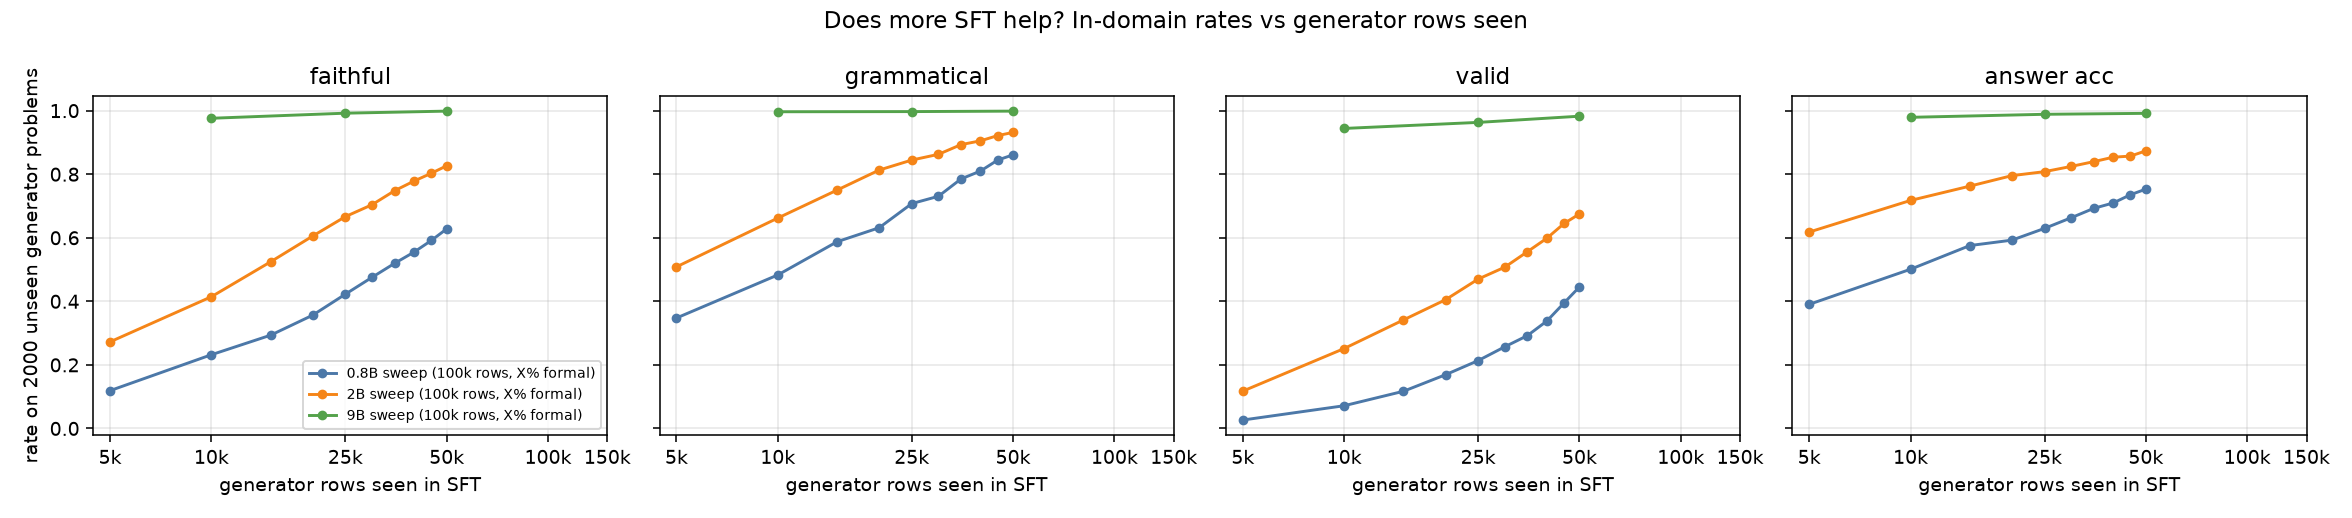
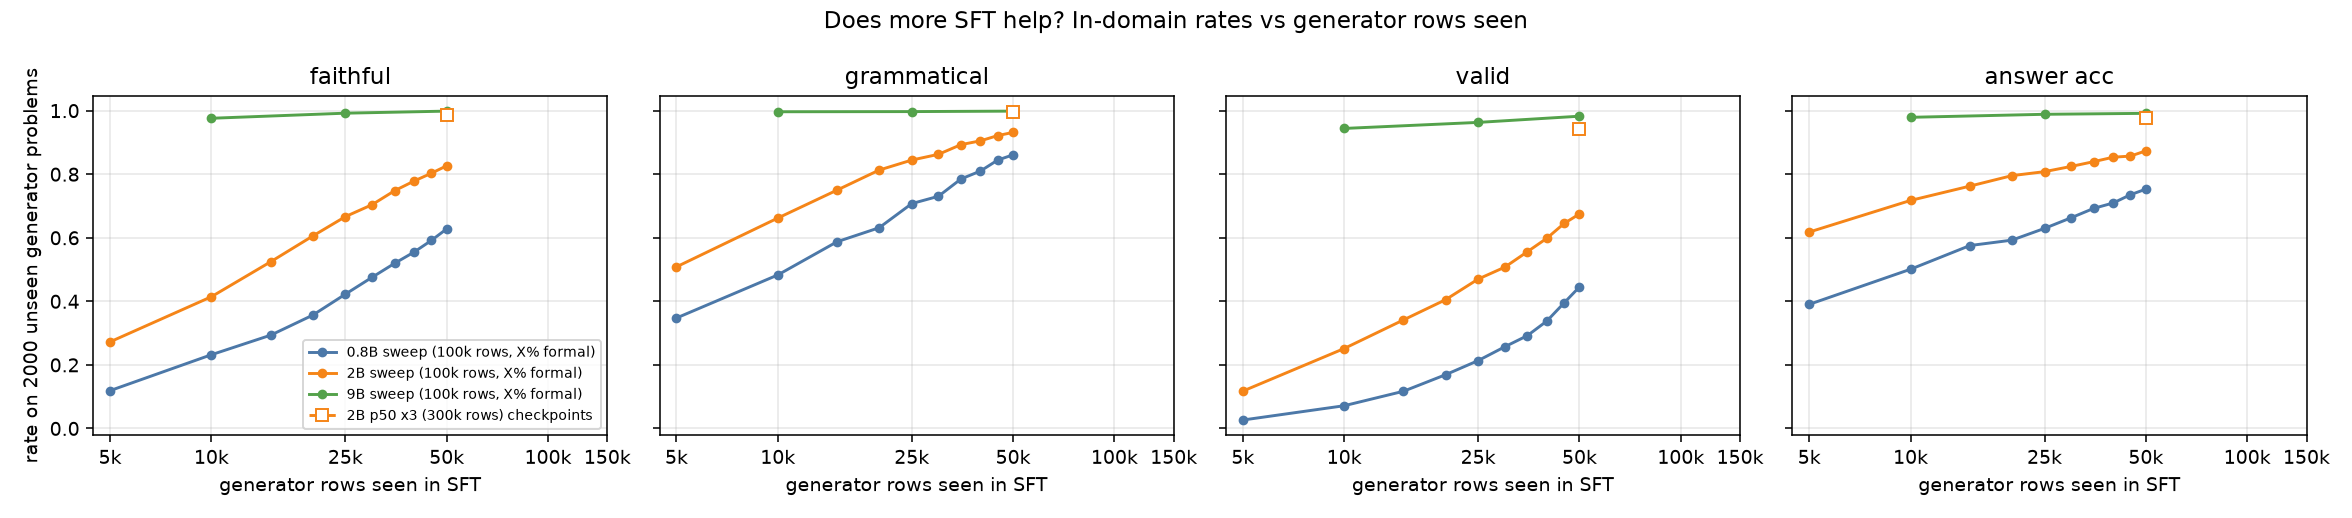
Stage 1: x3 ckpt-781 (fp32) in-domain .942, Dolci gate unchanged
Claude-Session: https://claude.ai/code/session_01WnQYXLXLcnkw9LdZ4eJP3w

Changed region(s): [[0.1241, 0.6486, 0.2483, 0.834], [0.9001, 0.2162, 0.9311, 0.2471]]

diff --git a/reports/2026-09-28_stage1_interim.md b/reports/2026-09-28_stage1_interim.md
@@ -121,3 +121,26 @@ Tagged overall (grammatical / valid / correct-on-answerable / in-system, %): p10
 - Multi-step deductive reasoning in natural-language CoT improves (ProofWriter CoT +9–11 at p10/p25, largest at depth 2–3), peaking at p25 and falling back at p50.
 - Costs grow with X: BBH formal_fallacies (-7 to -11) and MuSiQue (-5 at p50).
 - Stage-1 recommendation at 9B: X = 25% (best CoT transfer, in-domain valid .963, tagged validity already at its plateau, no general-benchmark cost). Single seed; GPQA/FOLIO deltas are within noise.
+
+## 2026-09-29 23:25: p50 x3, checkpoint-781 (first point of the longer SFT, ~50k generator rows)
+
+Run: `qwen35_2b_dolci_rlvlgen_p50_x3` (p50 recipe at 3x the rows, 2342 steps; ZeRO-2 with fp32 master weights, so it does not have the bf16 precision bug). Checkpoint-781 has seen ~50k generator rows, as many as the original p50 final. Its LR is not decayed yet (cosine over 2342 steps). Figure: `figures/sft_scale_curve.png`.
+
+In-domain (2000 unseen generator problems):
+
+| model | generator rows | faithful | grammatical | valid | answer acc |
+|---|---|---|---|---|---|
+| 2B p50 (bf16 DDP, crippled) | 50k | — | — | .675 | — |
+| **2B p50 x3 @781 (fp32 master)** | ~50k | .986 | .996 | **.942** | .976 |
+| 9B p10 | 10k | — | — | .944 | — |
+| 9B p50 | 50k | — | — | .983 | — |
+
+Dolci gate (`rl_gate_dolci`, answers must also be proven):
+
+| model | has_proof | grammatical | format_ok | valid_eval | valid | in-system | correct |
+|---|---|---|---|---|---|---|---|
+| SFT p50 | .399 | .082 | .328 | .008 | .004 | .002 | .222 |
+| SFT p50 + lemma catalog (fp32) | .598 | .189 | .484 | .011 | .007 | .003 | .224 |
+| **SFT p50 x3 @781** | .299 | .134 | .275 | .023 | .007 | .004 | .214 |
+
+**Reading.** With correct precision, the 2B model reaches 9B-level in-domain validity after the same 50k generator rows: .942 vs .675. So most of the earlier 2B/9B gap was the precision bug, not model size. Transfer to Dolci does not follow. valid_eval doubles (.008 → .023, the best SFT so far), but end-to-end valid stays at .007 and the model writes fewer proofs (has_proof .30). In-domain competence is now saturated at 2B. The remaining bottleneck is transfer to natural prompts. That is the Stage-2 GRPO / EI question, not a question of longer SFT. Checkpoints 1562 and final follow (the watcher submits their eval and gate automatically), and the corrected 2B p00/p10/p25/p50 reruns (7146/7215/7217/7147) give the matched mixture curve.
